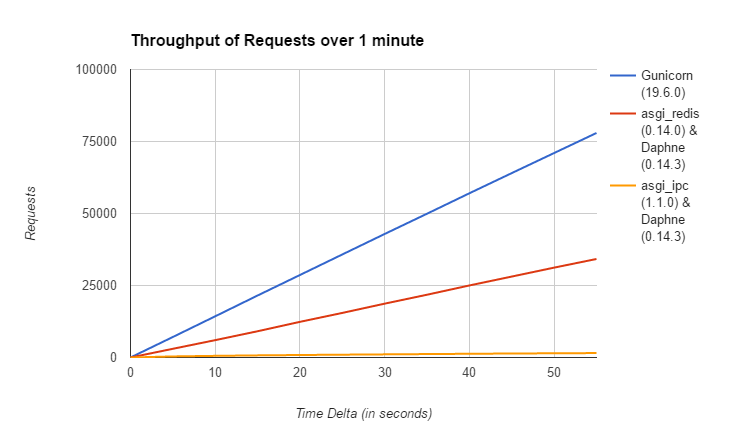
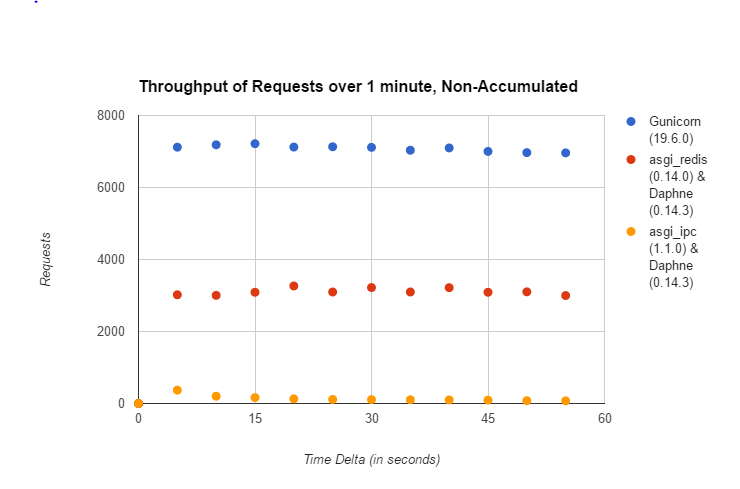
Updated channels loadtesting results (#437)
* Starting reporting write up.

* Added in charts

* Added in images to report

* Cleaned up comments

* Added in clarifications about the testing

* Added in clarification

* Added date

* Added in subdir with same content

* Added in supervisor configs

* updated the readme

* Update and rename README.rst to README.md

* Update README.md

* Added in version info.

* Changes to root info

* Update README.md

* Update README.md

* Cleaned up presentation

* Update README.rst

* Updated images

* Updated images and content

diff --git a/loadtesting/2016-09-06/README.rst b/loadtesting/2016-09-06/README.rst
@@ -13,6 +13,15 @@ In order to control for variances, several measures were taken:
 - several tests were run for each setup and test type
 
 
+Setups
+~~~~~~~~~~~~
+
+3 setups were used for this set of tests:
+
+1) Normal Django with Gunicorn (19.6.0)
+2) Django Channels with local Redis (0.14.0) and Daphne (0.14.3)
+3) Django Channels with IPC (1.1.0) and Daphne (0.14.3)
+
 
 Latency
 ~~~~~~~~~~~~
@@ -22,7 +31,8 @@ All target and sources machines were identical ec2 instances m3.2xlarge running 
 In order to ensure that the same number of requests were sent, the rps flag was set to 300.
 
 
-.. image:: channels-latency.PNG
+.. image:: channels-latency.png
+
 
 Throughput
 ~~~~~~~~~~~~
@@ -34,13 +44,16 @@ For the following tests, loadtest was permitted to autothrottle so as to limit e
 
 Gunicorn had a latency of 6 ms; daphne and Redis, 12 ms; daphne and IPC,  35 ms.
 
-.. image:: channels-throughput.PNG
+
+.. image:: channels-throughput.png
 
 
 Supervisor Configs
 ~~~~~~~~~~~~
 
 **Gunicorn (19.6.0)**
+
+This is the non-channels config. It's a standard Django environment on one machine, using gunicorn to handle requests.
 
 .. code-block:: bash
 
@@ -55,6 +68,10 @@ Supervisor Configs
 
 
 **Redis (0.14.0) and Daphne (0.14.3)**
+
+This is the channels config using redis as the backend. It's on one machine, so a local redis confog.
+
+Also, it's a single worker, not multiple, as that's the default config.
 
 .. code-block:: bash
 
@@ -75,6 +92,9 @@ Supervisor Configs
 
 
 **IPC (1.1.0) and Daphne (0.14.3)**
+
+This is the channels config using IPC (Inter Process Communication). It's only possible to have this work on one machine.
+
 
 .. code-block:: bash
 
